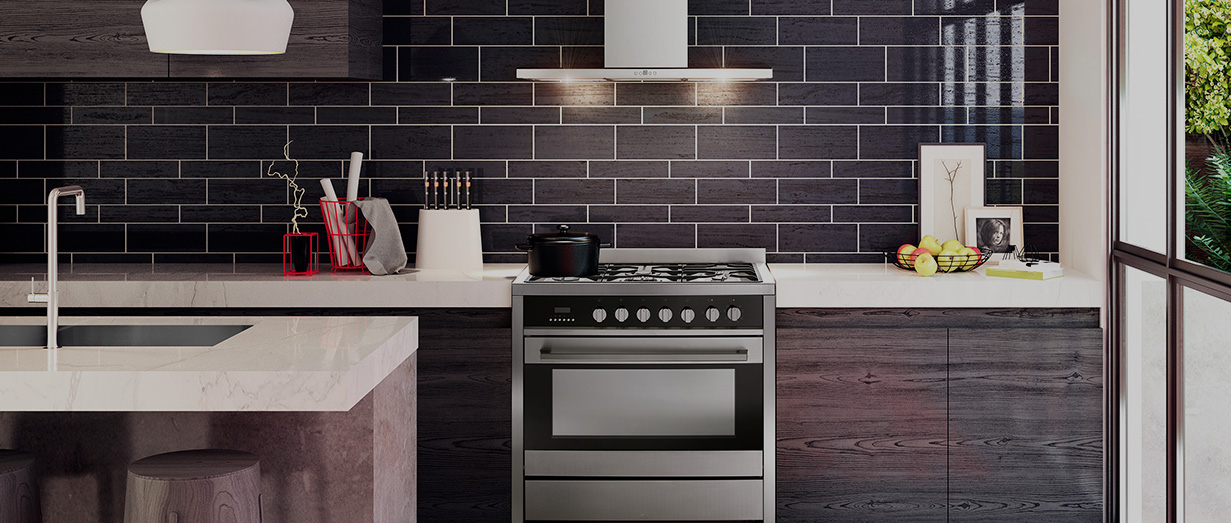
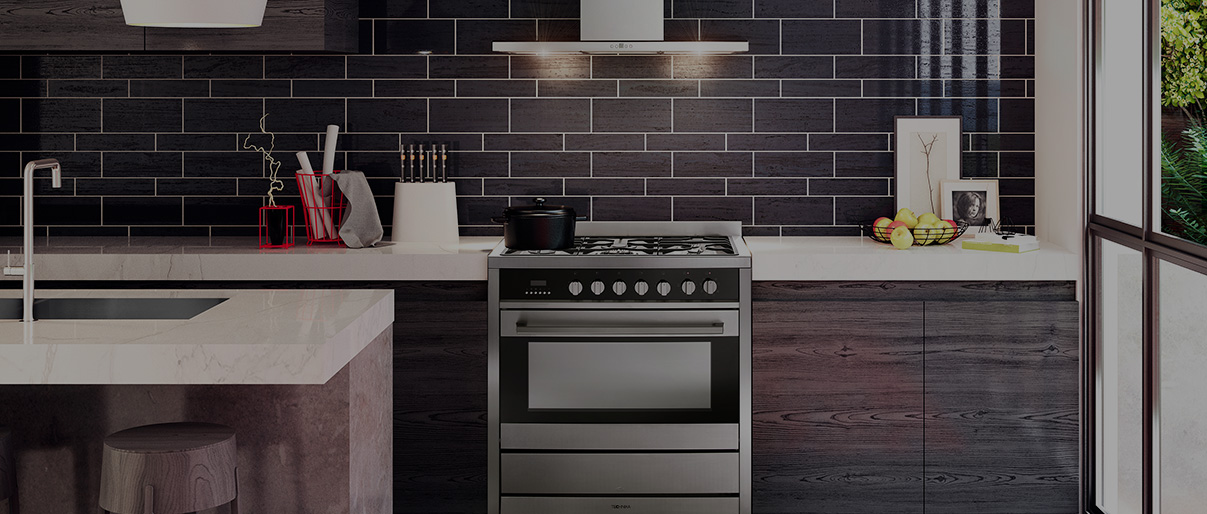
attempt 11 bg image for ie9

diff --git a/css/style.css b/css/style.css
@@ -7,10 +7,9 @@
   width: 100%;
   height: 450px;
   /* ie fallbacks */
-  background-image: url("../assets/background.jpg");
+  background-image: url("../assets/background-ie.jpg");
   -ms-filter: "progid:DXImageTransform.Microsoft.AlphaImageLoader(src='./assets/background-ie.jpg', sizingMethod='scale')";
   filter: progid:DXImageTransform.Microsoft.AlphaImageLoader(src='./assets/background-ie.jpg', sizingMethod='scale');
-  background-image: url("../assets/background-ie.jpg");
   background-image: -webkit-linear-gradient(top, rgba(0, 0, 0, 0.2), rgba(0, 0, 0, 0.2)), url("../assets/background.jpg");
   background-image: linear-gradient(to bottom, rgba(0, 0, 0, 0.2), rgba(0, 0, 0, 0.2)), url("../assets/background.jpg");
   background-repeat: no-repeat;

diff --git a/css/style.scss b/css/style.scss
@@ -9,12 +9,11 @@
   height: 450px;
 
   /* ie fallbacks */
-  background-image: url('../assets/background.jpg');
+  background-image: url('../assets/background-ie.jpg');
   -ms-filter: "progid:DXImageTransform.Microsoft.AlphaImageLoader(src='./assets/background-ie.jpg', sizingMethod='scale')";
   filter: progid:DXImageTransform.Microsoft.AlphaImageLoader(src='./assets/background-ie.jpg', sizingMethod='scale');
 
   // /* desired styles */
-  background-image: url('../assets/background-ie.jpg');
   background-image: linear-gradient(to bottom, rgba(0, 0, 0, 0.2), rgba(0, 0, 0, 0.2)), url('../assets/background.jpg');
   background-repeat: no-repeat;
   background-position: center center;
